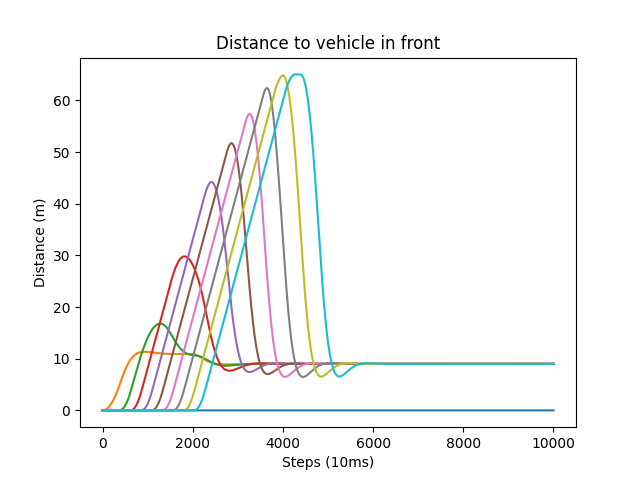
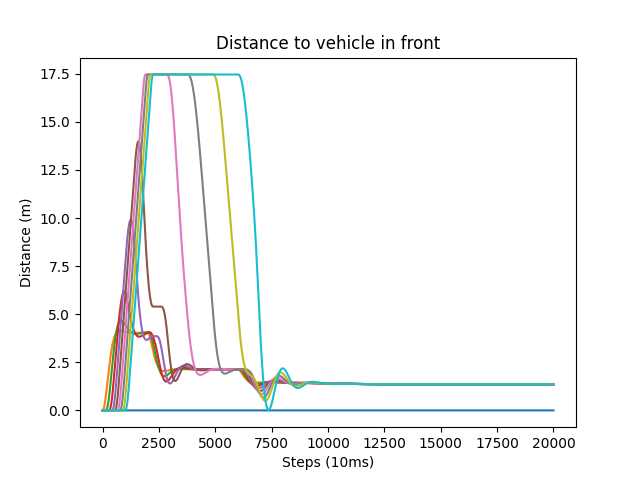
dynamic minimal distance and testing with leader breaking senario

diff --git a/simulations/src/vehicle/vehicle.py b/simulations/src/vehicle/vehicle.py
@@ -1,12 +1,12 @@
 class Vehicle:
 
     t_c = 10  # number of steps for period of communication (10ms*t_c = 100ms)
-    max_speed = 100 # (km/h)
-    max_acceleration = 0.05 # speed (km/h) / step
-    max_deceleration = 0.2 # speed (km/h) / step
     array_distance_errors_len = 100
 
     def __init__(self, order) -> None:
+        self.max_speed = 55 # (km/h)
+        self.max_acceleration = 0.05 # speed (km/h) / step
+        self.max_deceleration = 0.2 # speed (km/h) / step
         self.speed = 0  # initially it the vehicle stands still
         self.speed_old = 0  # updates each period t_c
         self.position = 0  # current position of the vehicle in meters
@@ -40,16 +40,18 @@ class Vehicle:
         self.prev_distance_error = error
 
         self.array_distance_errors[self.array_distance_errors_pointer] = error
-        #self.array_distance_errors_pointer = 1 + self.array_distance_errors_pointer
         if self.array_distance_errors_pointer == self.array_distance_errors_len-1:
             self.array_distance_errors_pointer = 0
 
-        #self.sum_distance_errors = self.sum_distance_errors + error
         return self.distance
+
+    def update_min_distance(self):
+        self.min_distance = self.speed/3.6 * 0.01 + 2 # + margin
+        return self.min_distance
 
     def calculate_valid_speed(self, desired_speed):
         # Calculate valid speed, i.e., between 0 and 100
-        allowed_speed = min(max(desired_speed, 0), 100)
+        allowed_speed = min(max(desired_speed, 0), self.max_speed)
 
         # Calculate valid acceleration/deceleration
         speed_up  = allowed_speed - self.speed > 0

diff --git a/simulations/src/vehicle/vehicle_pid_distance.py b/simulations/src/vehicle/vehicle_pid_distance.py
@@ -14,12 +14,14 @@ class VehiclePidDistance(Vehicle):
         is_leader = self.order == 0
 
         if is_leader:
-            if self.speed < self.max_speed/2:
-                self.speed = self.speed + self.max_acceleration/2
-            elif step > 60: # TODO: should change to when it actually should start slowing down
-                self.speed = self.speed - self.max_acceleration/2
+            desired_speed = self.speed
+            if self.speed < 50 and step < 6000: #self.max_speed/2:
+                desired_speed = self.speed + self.max_acceleration/2
+            elif step > 6000: # TODO: should change to when it actually should start slowing down
+                desired_speed = self.speed - self.max_deceleration/24
             # else remain constant speed
-            pass
+            self.speed = self.calculate_valid_speed(desired_speed)
+
         else: 
             distance_from_min = (self.distance - self.min_distance)
             kp = 0.05/17

diff --git a/simulations/src/platoon/platoon.py b/simulations/src/platoon/platoon.py
@@ -28,6 +28,7 @@ class Platoon:
             speeds_each_run = np.append(speeds_each_run, v.update_speed(step))
             positions_each_run = np.append(positions_each_run, v.update_position())
             distances_each_run = np.append(distances_each_run, v.update_distance(v_in_front.get_position()))
+            v.update_min_distance()
             v_in_front = v
 
         self.speeds.append(speeds_each_run)

diff --git a/simulations/simulation-pid-distance-model.py b/simulations/simulation-pid-distance-model.py
@@ -21,4 +21,4 @@ def simulate(num_steps, num_vehicles):
     plot_distances(distances, num_vehicles, 'plots/distances-with-pid-distance-model.png')
 
 if __name__ == "__main__":
-    simulate(10000, 10)
+    simulate(20000, 10)
